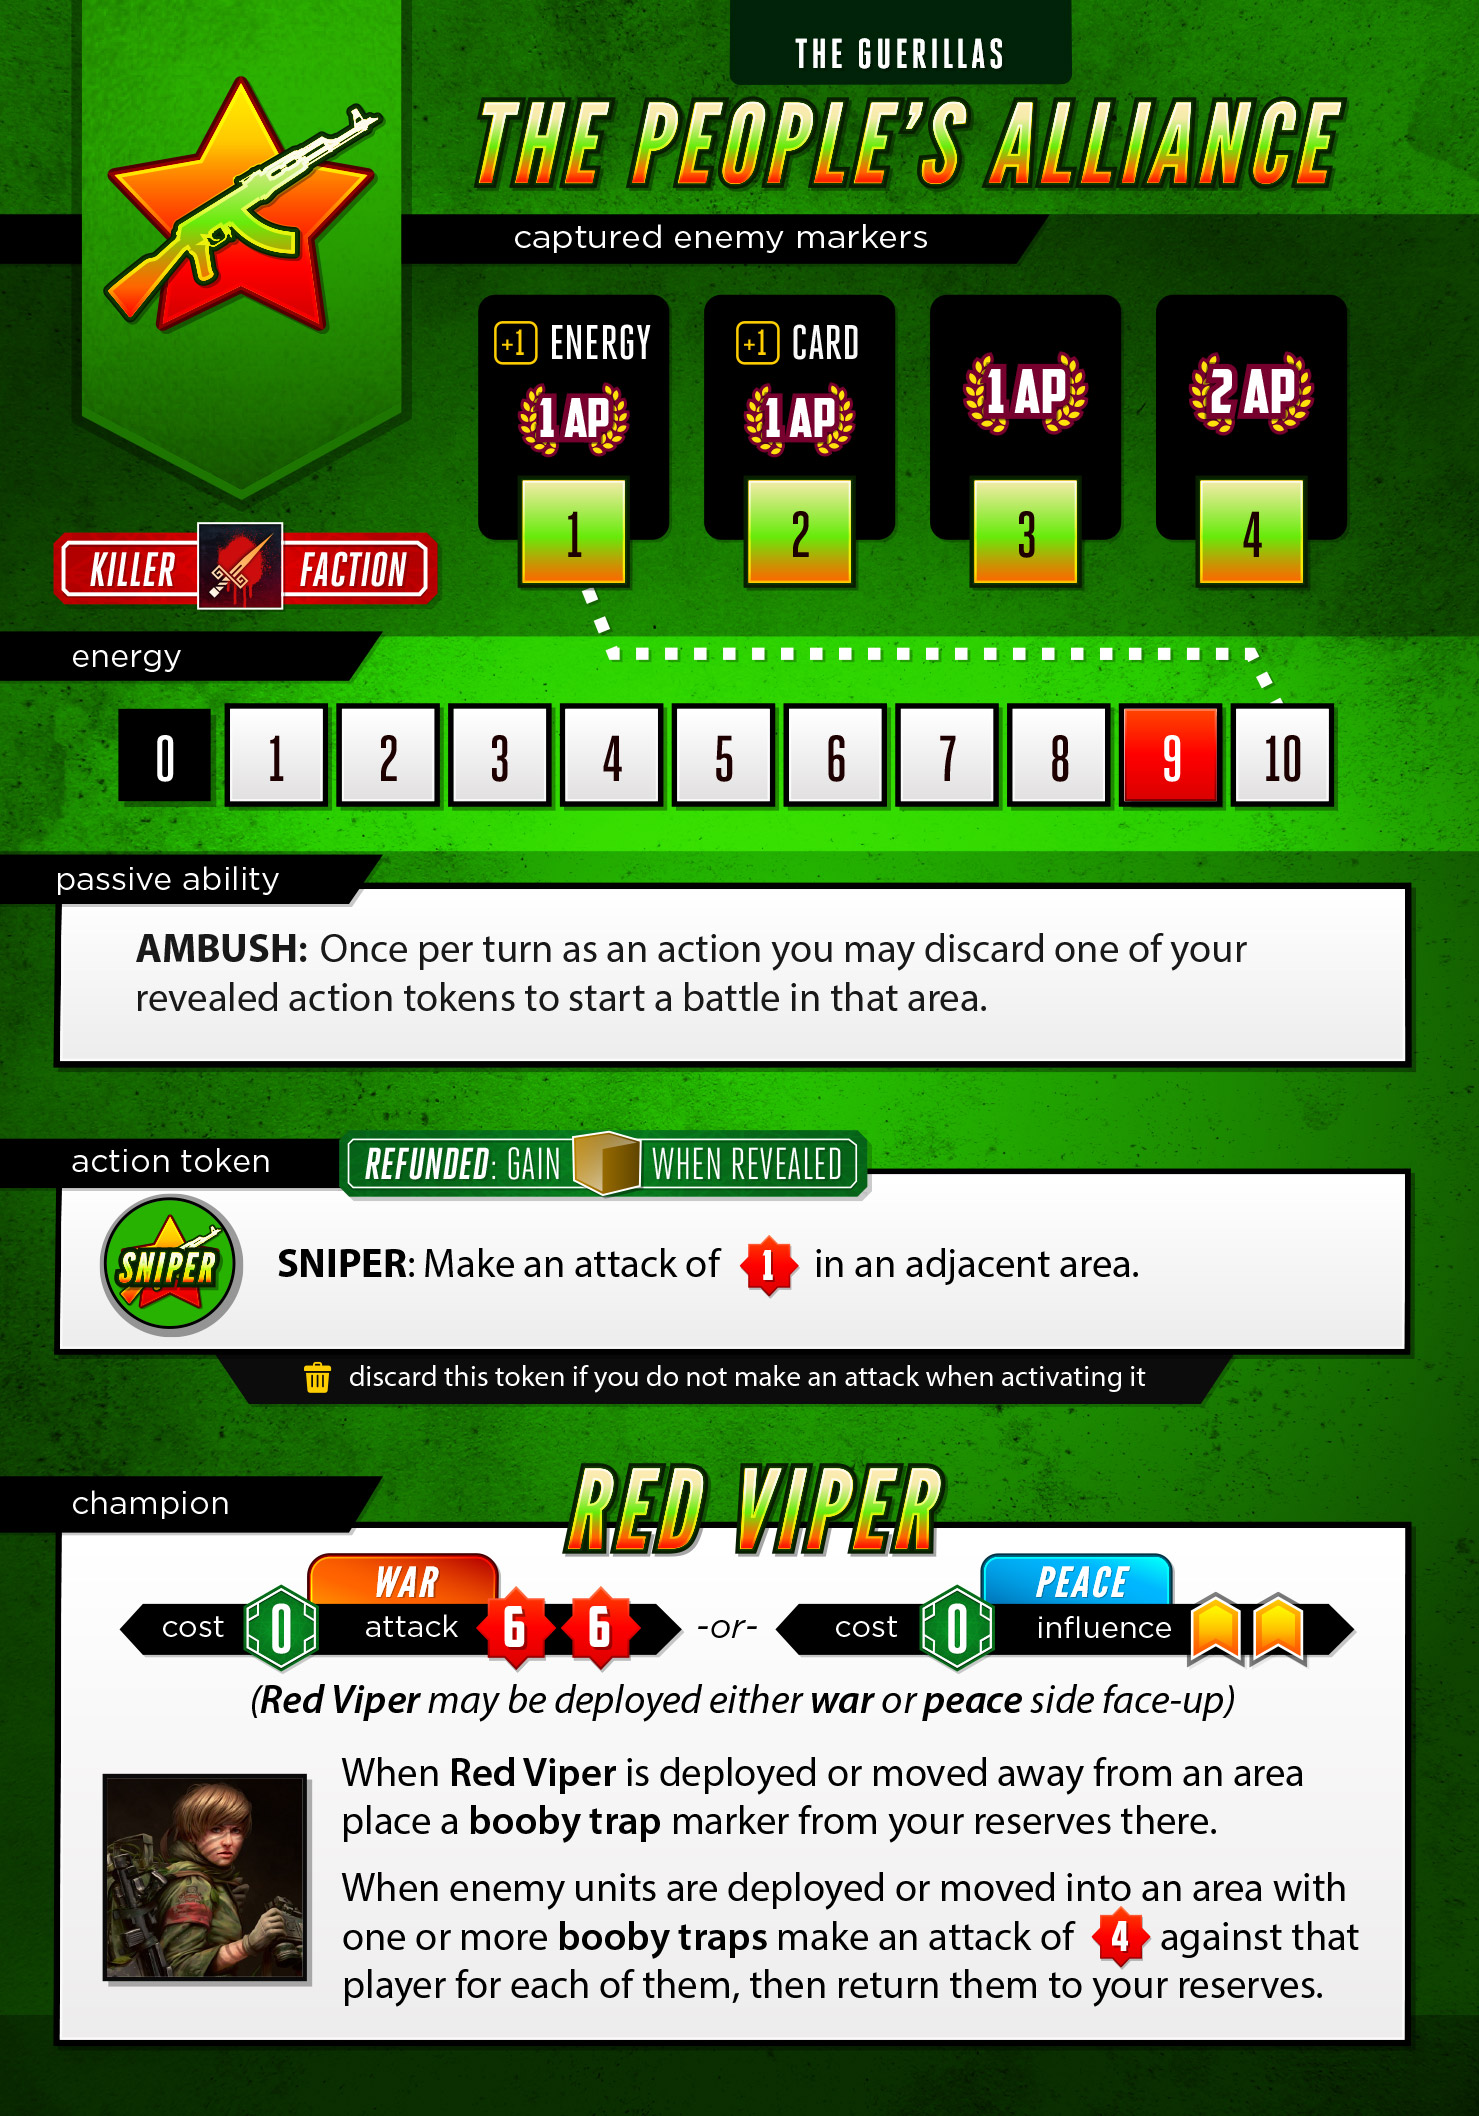
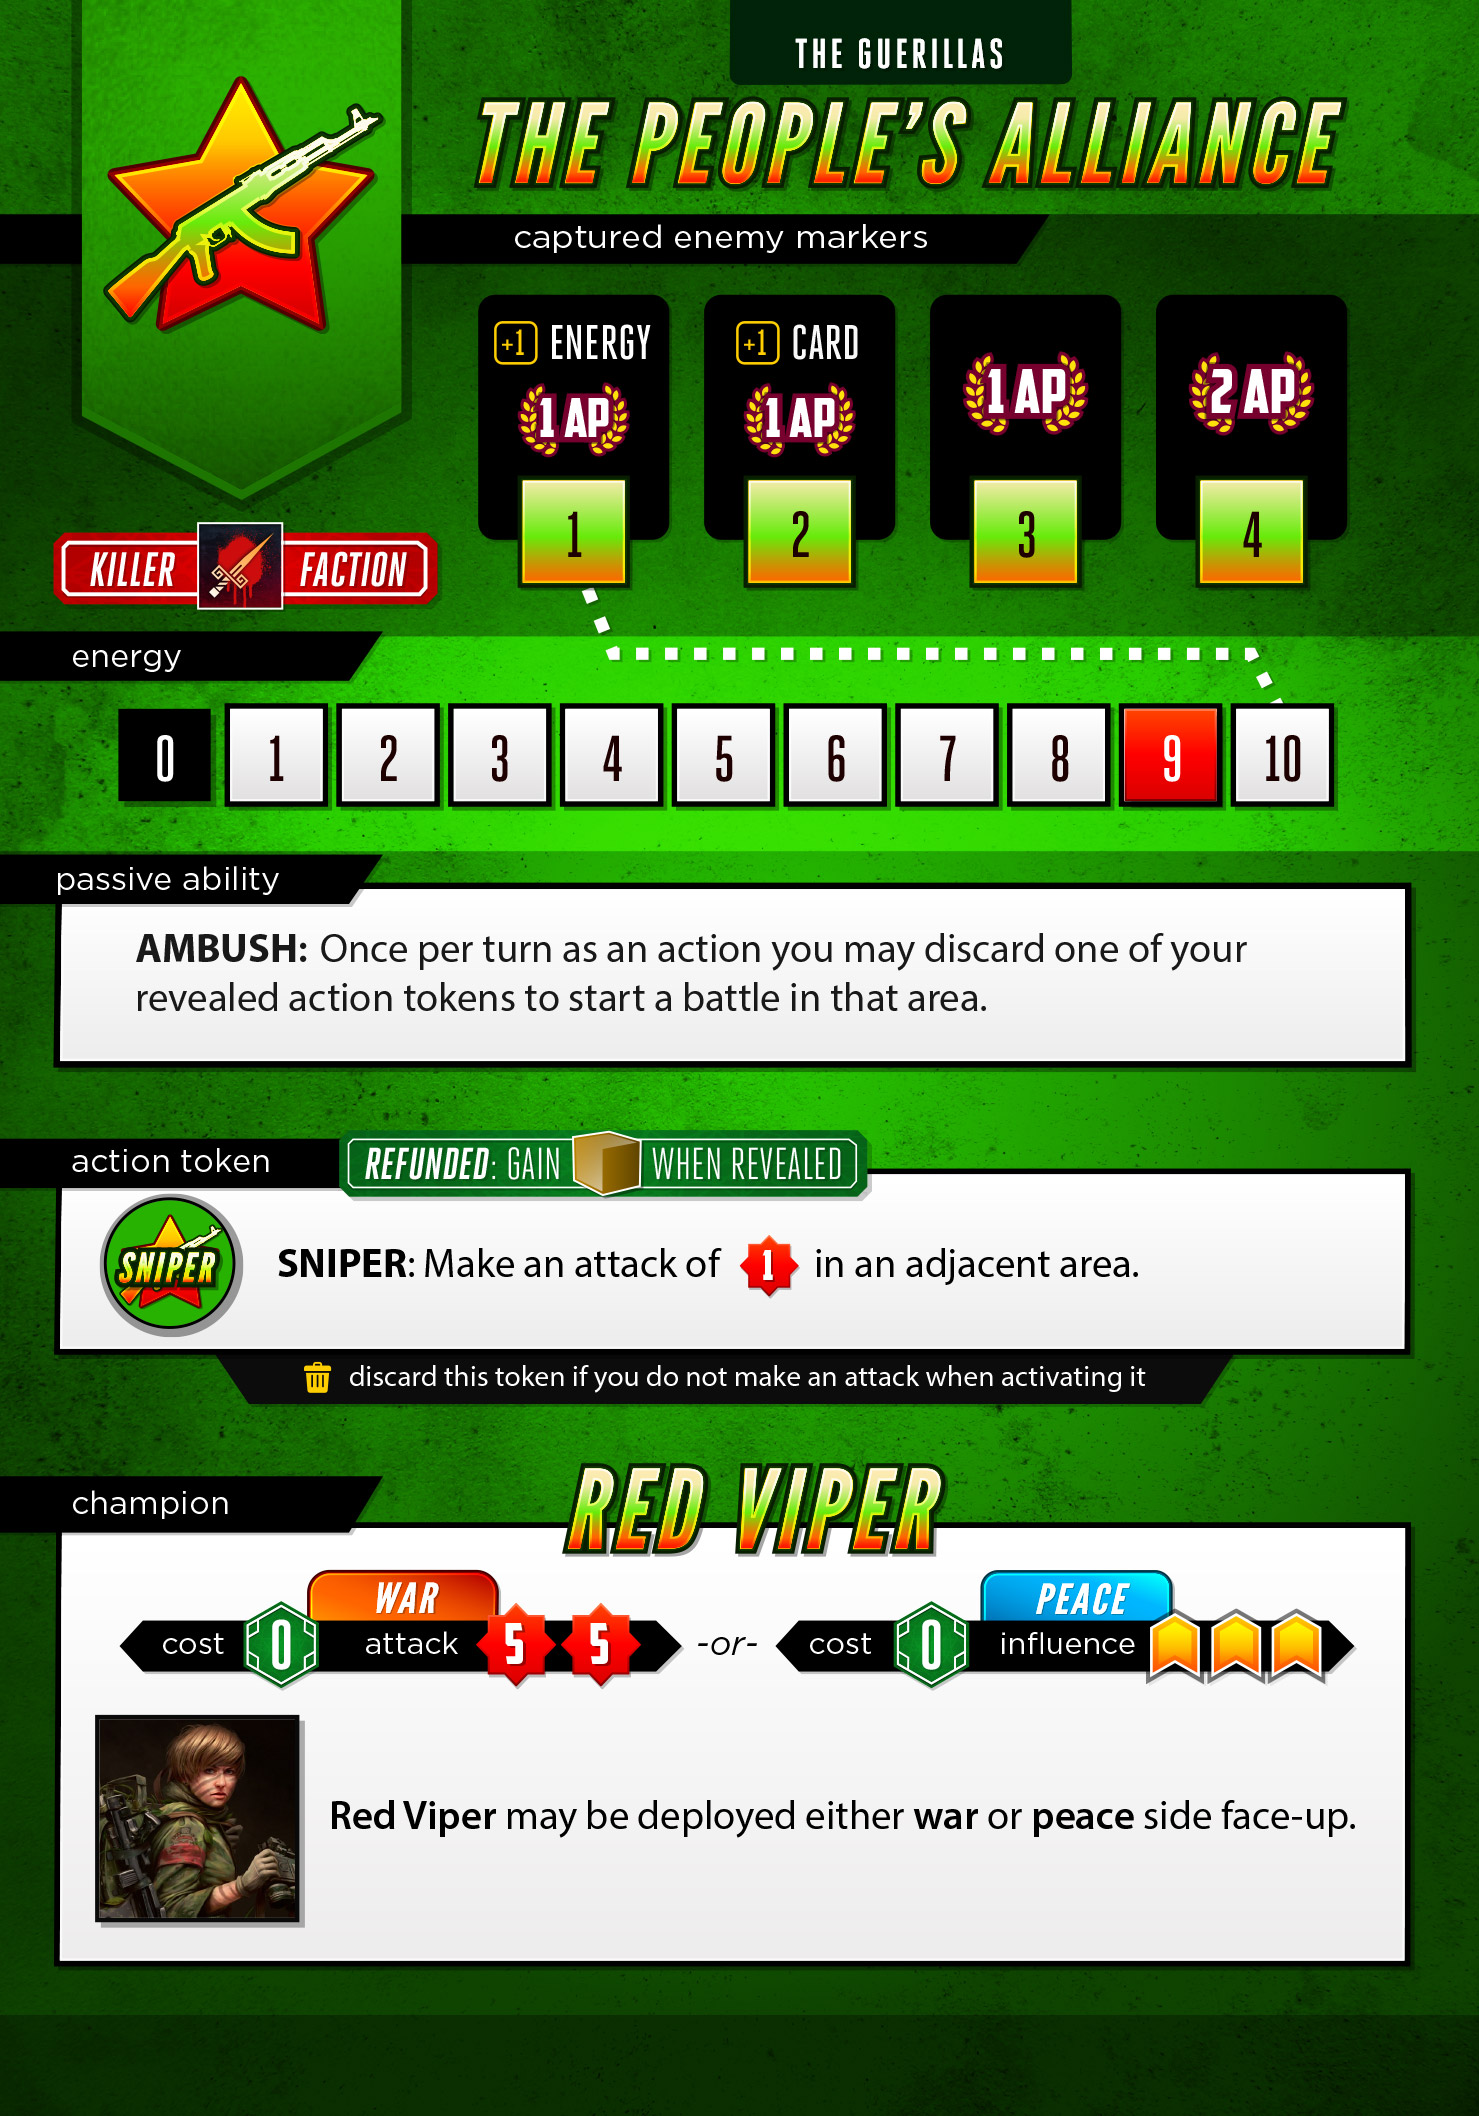
GUERILLAS: remove traps stuff, make boss stats better

Changed region(s): [[0.0311, 0.7174, 0.9642, 0.9669]]

diff --git a/server/classes/factions/Guerrillas.js b/server/classes/factions/Guerrillas.js
@@ -10,8 +10,8 @@ class Guerrillas extends Faction {
         // triggers
         this.triggers = {
             "onCleanUp" : "resetAmbushUsedCount",
-            "onMoveAll" : "checkForTraps",
-            "onDeployAll" : "checkForTraps",
+            //"onMoveAll" : "checkForTraps",
+            //"onDeployAll" : "checkForTraps",
         };
 
 
@@ -66,19 +66,19 @@ class Guerrillas extends Faction {
                 name: "Red Viper",
                 type: 'champion',
                 basic: false,
-                attack: [6, 6],
-                warAttack: [6, 6],
+                attack: [5, 5],
+                warAttack: [5, 5],
                 peaceAttack: [],
                 influence: 0,
                 warInfluence: 0,
-                peaceInfluence: 2,
+                peaceInfluence: 3,
                 cost: 0,
                 killed: false,
                 selected: false,
                 hitsAssigned: 0,
                 flipped: false,
                 onDeploy: 'viperDeploy',
-                onMove: 'viperBoobyTrap'
+                //onMove: 'viperBoobyTrap'
             }
         };
     }
@@ -235,7 +235,7 @@ class Guerrillas extends Faction {
         await this.chooseViperSide();
 
         // handle bring units trigger
-        await this.viperBoobyTrap( event );
+        //await this.viperBoobyTrap( event );
     }
 
     viperBoobyTrap( event ){
